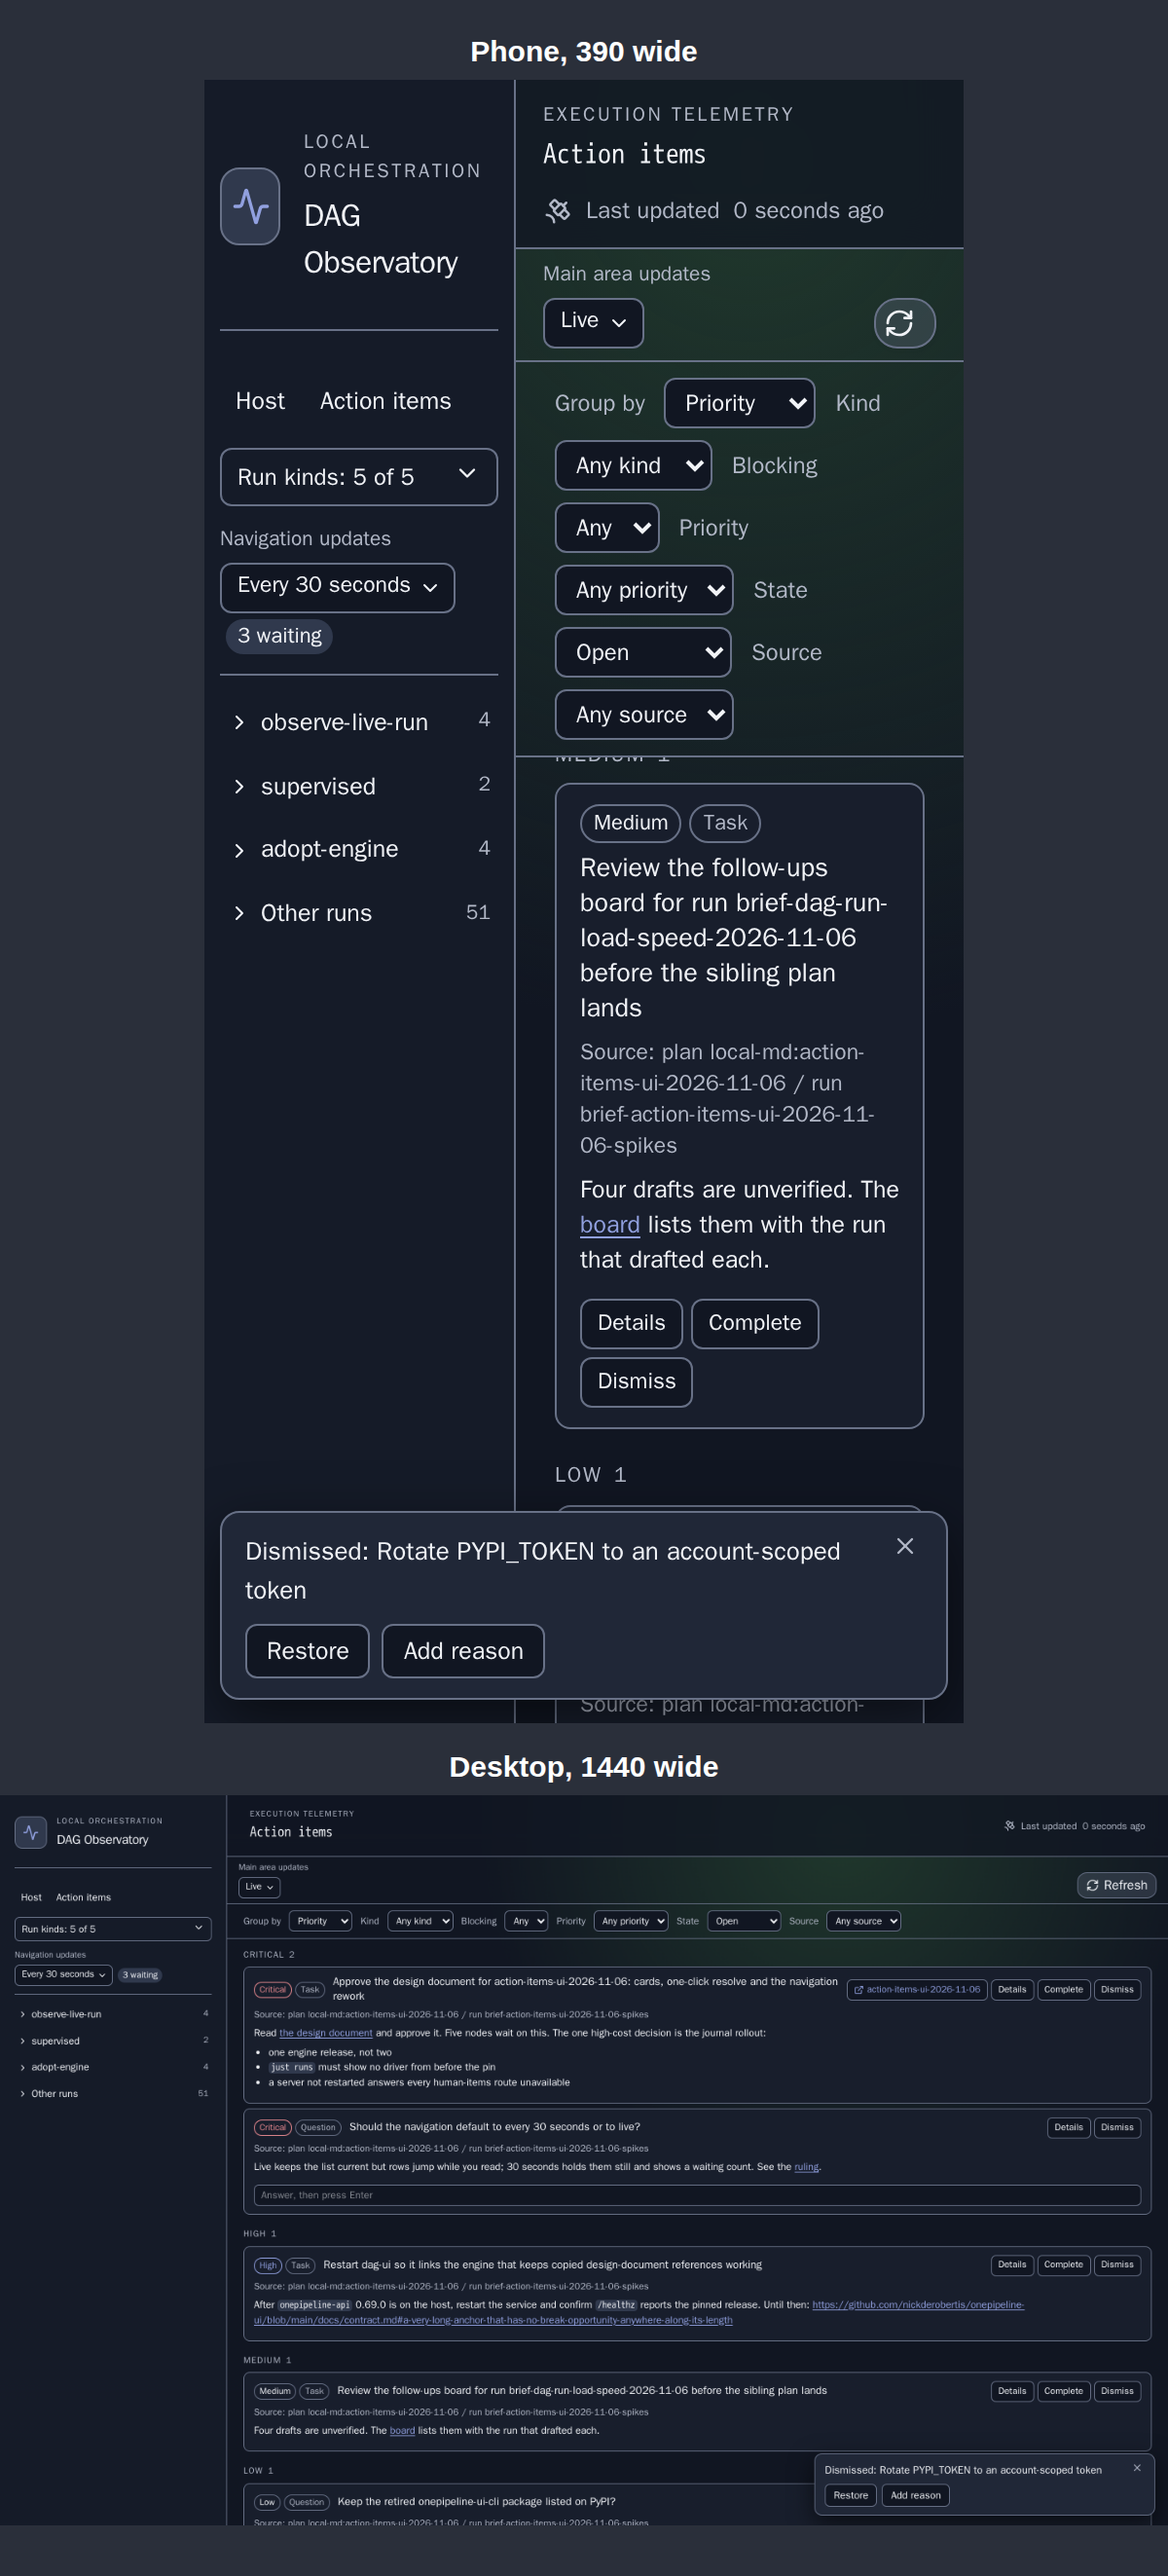
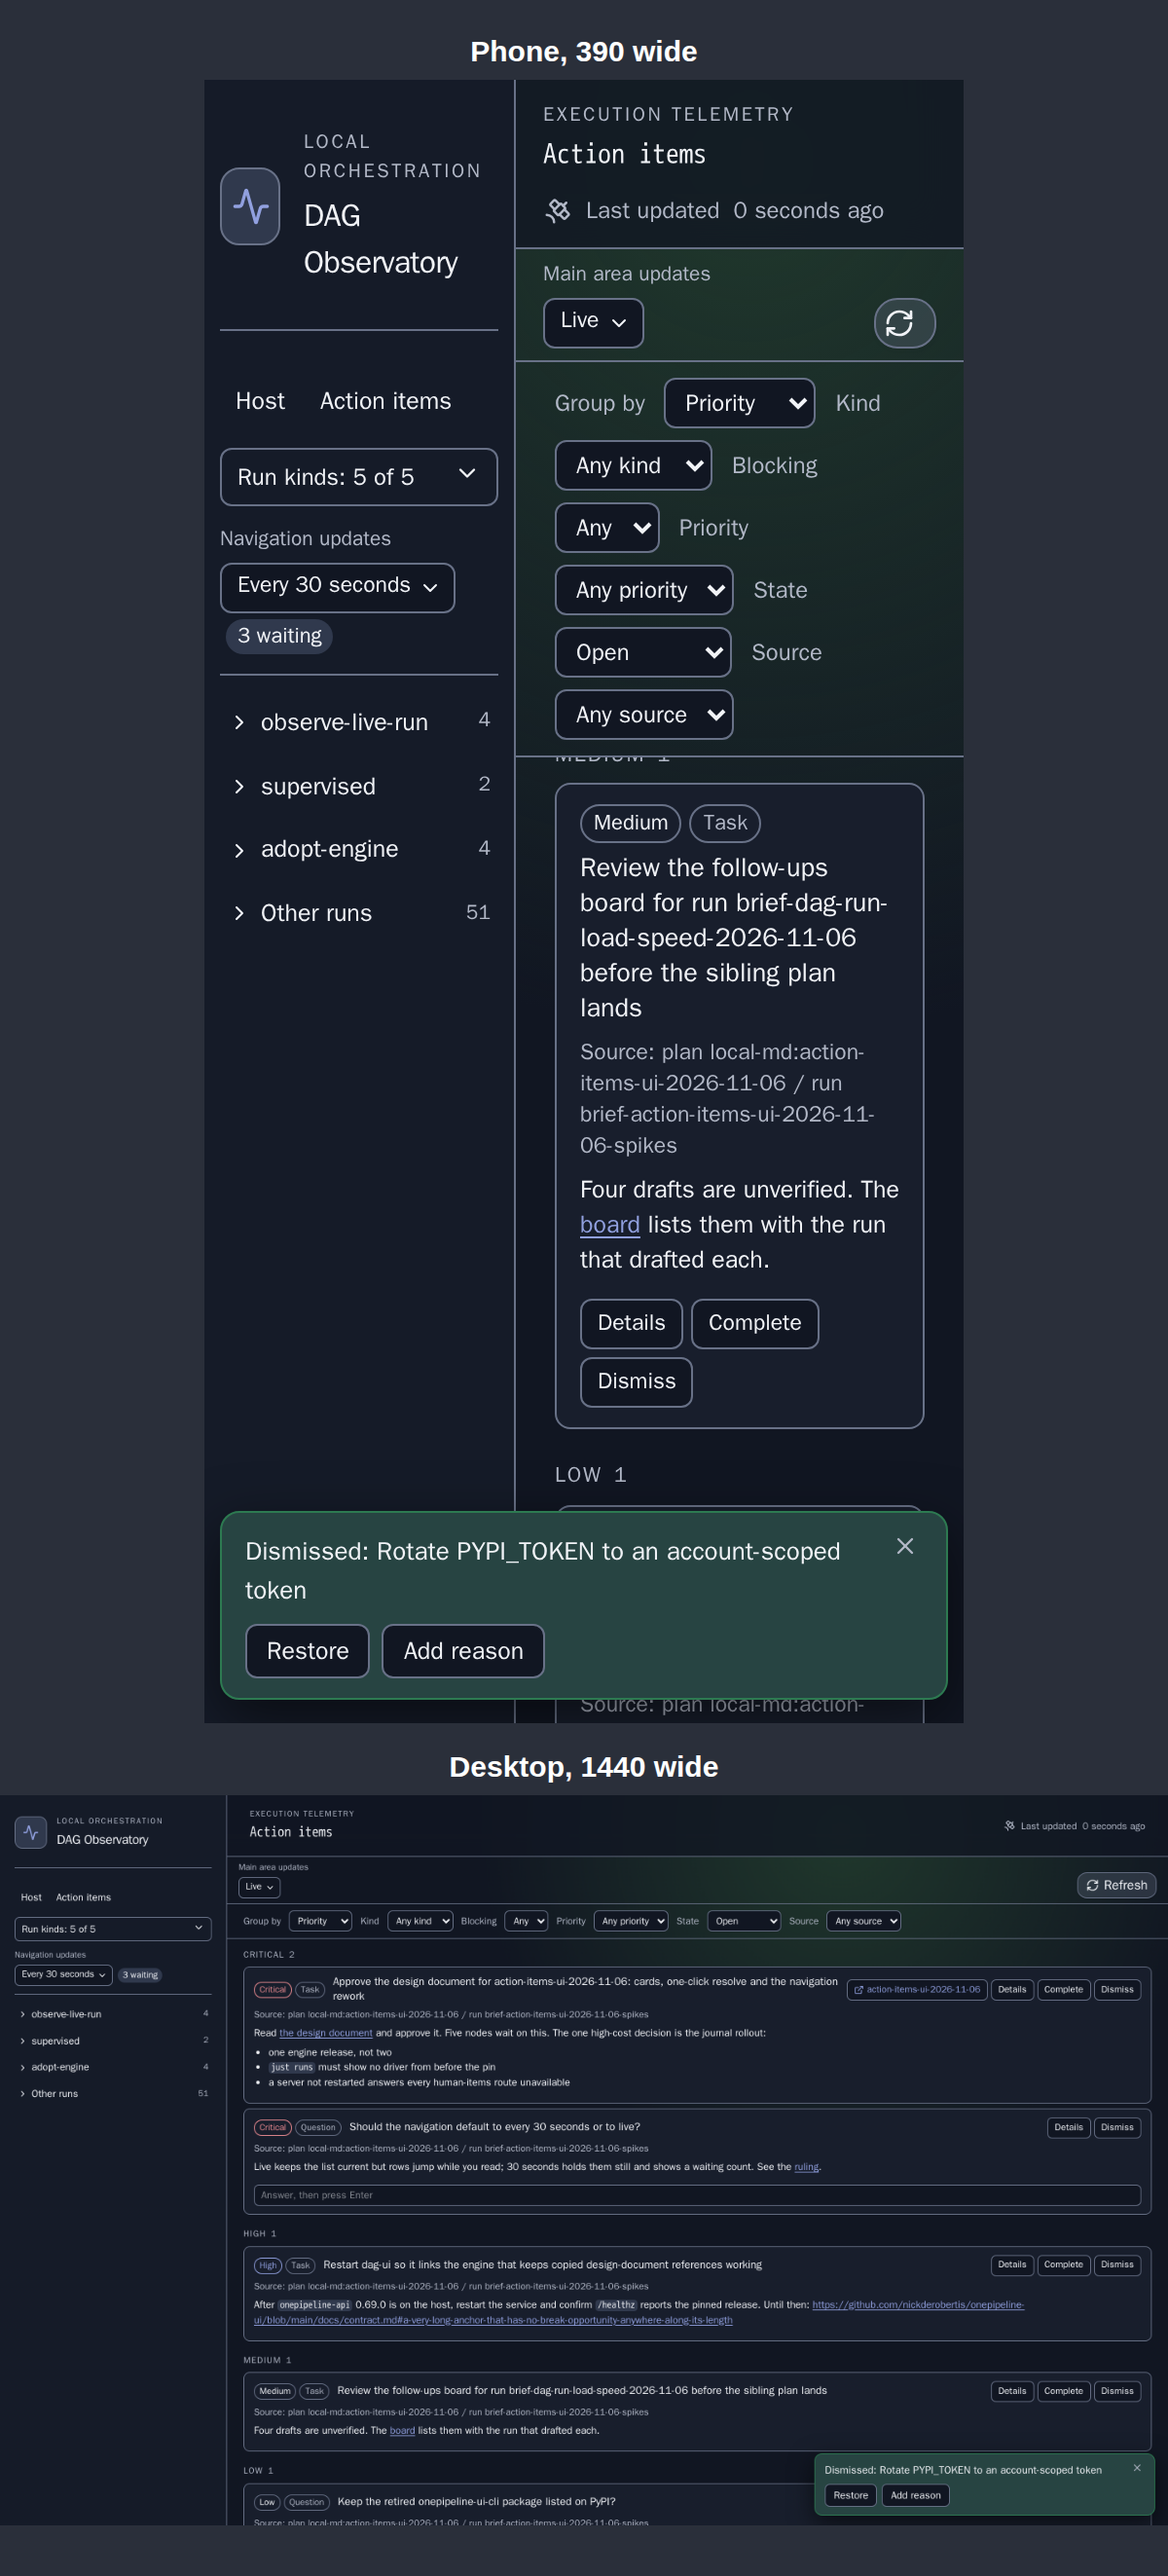
chore(spike): refresh the visual spike's report snapshot with the coloured toasts

Changed region(s): [[0.185, 0.5888, 0.8325, 0.6818], [0.6783, 0.9297, 0.9867, 0.9917]]

diff --git a/docs/spikes/action-items-ui-2026-11-06-spike-visual/report.md b/docs/spikes/action-items-ui-2026-11-06-spike-visual/report.md
@@ -2,7 +2,7 @@
 title: 'Spike spike-visual report: action items and navigation mock'
 project: action-items-ui-2026-11-06
 metadata:
-  "onetaskgraph.template": {"template":"onepipeline:spike-report","digest":"sha256:f9de4090ff78d96a56b1f1d831f2d5d77c9c15e335379fefcb78a96b03caa354","body_digest":"sha256:5138f1011ad198b8b79d9ad11e03f2011f6168b8bcb622e7e0a26f3c7cefae9f","answers_digest":"sha256:82bf78f093c232a17baf2375a6bde48b8fc0d0d54123b414d265fcd93afcc5d4"}
+  "onetaskgraph.template": {"template":"onepipeline:spike-report","digest":"sha256:f9de4090ff78d96a56b1f1d831f2d5d77c9c15e335379fefcb78a96b03caa354","body_digest":"sha256:1388edfe187e7072fbb8e7393405e8f241f58ae3f00e8e7a8c6875e68c78184f","answers_digest":"sha256:c6285d221ce81bd5cb398e73ade18b48496fc70b1af2d261569c62da0e603eef"}
 ---
 # Spike `spike-visual`
 
@@ -23,7 +23,7 @@ A throwaway mock inside the real `apps/dag-ui`, driven through the repository's 
 
 **The fixture.** The mock's fixture gains kinds on six runs and a long markdown task on `dashboard`. The task appears in both pictures of change 8. The kinds appear only in the afters of changes 6 and 7, because the baseline's fixture has none.
 
-**Checks.** This spike owes none, and nothing here lands. No lint and none of the repository's test suites ran, and the mock's new surfaces are not expected to pass those tests. These did run: `npx tsc -p apps/dag-ui/tsconfig.json --noEmit` twice while building the mock's first commit, the first run reporting one error in `HumanItemsPage.tsx`, fixed, and the second none, and not again after the later commits; `just spike-visual-screens`, whose Playwright specs only take pictures: its run on 9a65520 exited 1 because `aria-disabled` on the greyed Reopen's wrapper also disabled the question mark inside it, which was fixed, and its last run, on the tree committed as d30edb7, exited 0; `playwright test --list`, showing the fallback's two surfaces resolve at both widths without running them; `cmp` of the images against the last capture's files: all four befores byte-identical to the images stored before that run, and the eight afters changed; and `onepipeline template check spike-report --item` on this report after each of its last three replacements, reporting ok.
+**Checks.** This spike owes none, and nothing here lands. No lint and none of the repository's test suites ran, and the mock's new surfaces are not expected to pass those tests. These did run: `npx tsc -p apps/dag-ui/tsconfig.json --noEmit` twice while building the mock's first commit, the first run reporting one error in `HumanItemsPage.tsx`, fixed, and the second none, and not again after the later commits; `just spike-visual-screens`, whose Playwright specs only take pictures: its first run exited 1 because the mock's fixture read its task text before declaring it, which was fixed; its run on 9a65520 exited 1 because `aria-disabled` on the greyed Reopen's wrapper also disabled the question mark inside it, which was fixed; and its last run, on the tree committed as c043d35, exited 0; `playwright test --list`, showing the fallback's two surfaces resolve at both widths without running them; `cmp` of the last capture's images against those stored before it: the four toast images changed and the other eight, all four befores among them, byte-identical; and `onepipeline template check spike-report --item` on this report after every replacement but the first, each reporting ok.
 
 
 ## Candidate budgets
@@ -64,25 +64,25 @@ Cards gain group headings with counts, rendered markdown with formatted links, a
 
 ### The toast after Dismiss
 
-Dismiss acts at once with no dialog. The card leaves and a toast offers Restore and Add reason. On a wide screen it sits at the bottom right; on a phone it stays across the bottom.
+Dismiss acts at once with no dialog. The card leaves and a toast offers Restore and Add reason. On a wide screen it sits at the bottom right; on a phone it stays across the bottom. The toast is a muted green, for success.
 
 ![The toast after Dismiss](./a2-dismiss-toast.png)
 
 ### The toast after Complete
 
-Complete acts at once. The card leaves and a toast offers Reopen and Add comment. On a wide screen it sits at the bottom right; on a phone it stays across the bottom.
+Complete acts at once. The card leaves and a toast offers Reopen and Add comment. On a wide screen it sits at the bottom right; on a phone it stays across the bottom. The toast is a muted green, for success.
 
 ![The toast after Complete](./a3-complete-toast.png)
 
 ### Reopen greyed, with its reason open
 
-Where an item cannot be reopened, Reopen is greyed with a small question mark on its text, as a superscript. Pressing the question mark opens the reason, which also works on a phone; on desktop hovering shows it too. Shown after completing an item whose script declares no undo.
+Where an item cannot be reopened, Reopen is greyed with a small question mark on its text, as a superscript. Pressing the question mark opens the reason, which also works on a phone; on desktop hovering shows it too. Shown after completing an item whose script declares no undo. The completion succeeded, so its toast is green.
 
 ![Reopen greyed, with its reason open](./a4-reopen-greyed.png)
 
 ### A failed write
 
-The card stays in its place with the reason on it, and the toast names what did not happen and why. On a phone the toast covers the bottom of the card, as the findings say; on a wide screen it sits at the bottom right, clear of this card. The refusal text is mock wording.
+The card stays in its place with the reason on it, and the toast, a muted red, names what did not happen and why. On a phone the toast covers the bottom of the card, as the findings say; on a wide screen it sits at the bottom right, clear of this card. The refusal text is mock wording.
 
 ![A failed write](./a5-failed-write.png)
 
@@ -153,7 +153,7 @@ method: |
 
   **The fixture.** The mock's fixture gains kinds on six runs and a long markdown task on `dashboard`. The task appears in both pictures of change 8. The kinds appear only in the afters of changes 6 and 7, because the baseline's fixture has none.
 
-  **Checks.** This spike owes none, and nothing here lands. No lint and none of the repository's test suites ran, and the mock's new surfaces are not expected to pass those tests. These did run: `npx tsc -p apps/dag-ui/tsconfig.json --noEmit` twice while building the mock's first commit, the first run reporting one error in `HumanItemsPage.tsx`, fixed, and the second none, and not again after the later commits; `just spike-visual-screens`, whose Playwright specs only take pictures: its run on 9a65520 exited 1 because `aria-disabled` on the greyed Reopen's wrapper also disabled the question mark inside it, which was fixed, and its last run, on the tree committed as d30edb7, exited 0; `playwright test --list`, showing the fallback's two surfaces resolve at both widths without running them; `cmp` of the images against the last capture's files: all four befores byte-identical to the images stored before that run, and the eight afters changed; and `onepipeline template check spike-report --item` on this report after each of its last three replacements, reporting ok.
+  **Checks.** This spike owes none, and nothing here lands. No lint and none of the repository's test suites ran, and the mock's new surfaces are not expected to pass those tests. These did run: `npx tsc -p apps/dag-ui/tsconfig.json --noEmit` twice while building the mock's first commit, the first run reporting one error in `HumanItemsPage.tsx`, fixed, and the second none, and not again after the later commits; `just spike-visual-screens`, whose Playwright specs only take pictures: its first run exited 1 because the mock's fixture read its task text before declaring it, which was fixed; its run on 9a65520 exited 1 because `aria-disabled` on the greyed Reopen's wrapper also disabled the question mark inside it, which was fixed; and its last run, on the tree committed as c043d35, exited 0; `playwright test --list`, showing the fallback's two surfaces resolve at both widths without running them; `cmp` of the last capture's images against those stored before it: the four toast images changed and the other eight, all four befores among them, byte-identical; and `onepipeline template check spike-report --item` on this report after every replacement but the first, each reporting ok.
 spike: spike-visual
 visual_changes:
 - name: Action items cards, grouped by Priority
@@ -161,16 +161,16 @@ visual_changes:
   before: b1-cards.png
   after: a1-cards.png
 - name: The toast after Dismiss
-  description: Dismiss acts at once with no dialog. The card leaves and a toast offers Restore and Add reason. On a wide screen it sits at the bottom right; on a phone it stays across the bottom.
+  description: Dismiss acts at once with no dialog. The card leaves and a toast offers Restore and Add reason. On a wide screen it sits at the bottom right; on a phone it stays across the bottom. The toast is a muted green, for success.
   after: a2-dismiss-toast.png
 - name: The toast after Complete
-  description: Complete acts at once. The card leaves and a toast offers Reopen and Add comment. On a wide screen it sits at the bottom right; on a phone it stays across the bottom.
+  description: Complete acts at once. The card leaves and a toast offers Reopen and Add comment. On a wide screen it sits at the bottom right; on a phone it stays across the bottom. The toast is a muted green, for success.
   after: a3-complete-toast.png
 - name: Reopen greyed, with its reason open
-  description: Where an item cannot be reopened, Reopen is greyed with a small question mark on its text, as a superscript. Pressing the question mark opens the reason, which also works on a phone; on desktop hovering shows it too. Shown after completing an item whose script declares no undo.
+  description: Where an item cannot be reopened, Reopen is greyed with a small question mark on its text, as a superscript. Pressing the question mark opens the reason, which also works on a phone; on desktop hovering shows it too. Shown after completing an item whose script declares no undo. The completion succeeded, so its toast is green.
   after: a4-reopen-greyed.png
 - name: A failed write
-  description: The card stays in its place with the reason on it, and the toast names what did not happen and why. On a phone the toast covers the bottom of the card, as the findings say; on a wide screen it sits at the bottom right, clear of this card. The refusal text is mock wording.
+  description: The card stays in its place with the reason on it, and the toast, a muted red, names what did not happen and why. On a phone the toast covers the bottom of the card, as the findings say; on a wide screen it sits at the bottom right, clear of this card. The refusal text is mock wording.
   after: a5-failed-write.png
 - name: Left navigation
   description: Projects become compact rows with counts, collapsed except the selected run's project. Each run is a row of state dot, name and kind tag, and the Open links are gone. One Run kinds dropdown, shown open here, replaces the checkboxes. On a phone the tag takes a second line. The before is the deployed baseline, whose fixture has no run kinds, so it does not show the checkboxes being replaced; on a host with kinds they sit above the project list.
